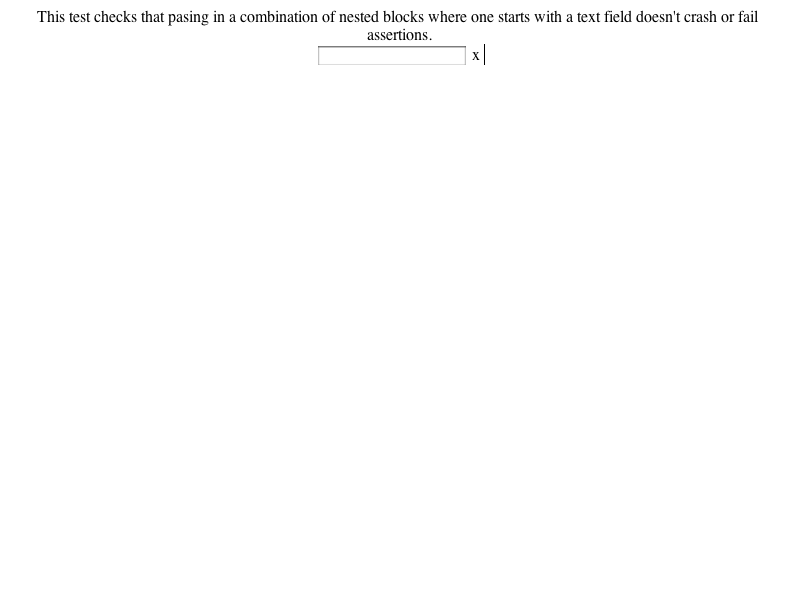
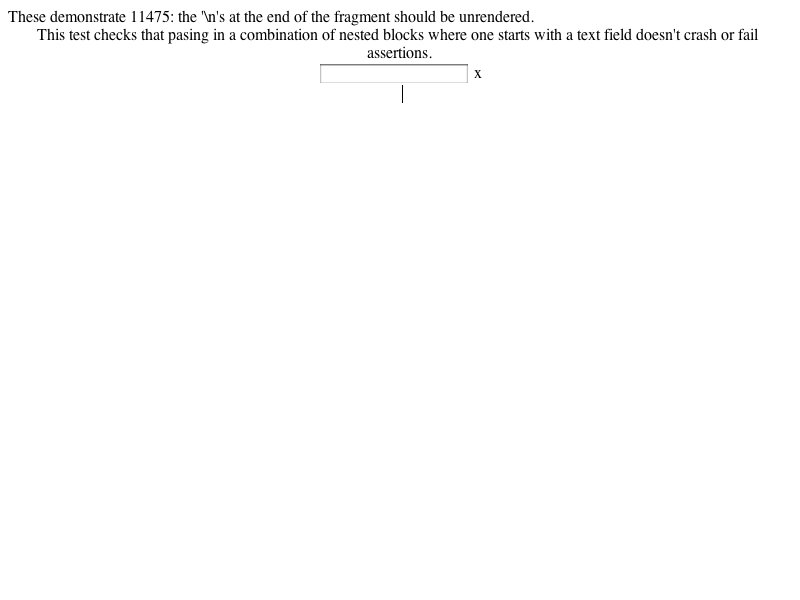
LayoutTests:
Reviewed by harrison

        Updated these tests to mention the bug that they demonstrate:
        * editing/pasteboard/nested-blocks-with-text-area-expected.checksum:
        * editing/pasteboard/nested-blocks-with-text-area-expected.png:
        * editing/pasteboard/nested-blocks-with-text-area-expected.txt:
        * editing/pasteboard/nested-blocks-with-text-area.html:
        * editing/pasteboard/nested-blocks-with-text-field-expected.checksum:
        * editing/pasteboard/nested-blocks-with-text-field-expected.png:
        * editing/pasteboard/nested-blocks-with-text-field-expected.txt:
        * editing/pasteboard/nested-blocks-with-text-field.html:

WebCore:

        Reviewed by harrison
        
        <rdar://problem/4711063>
        Pasting 10K lines into Mail/Blot takes ~7sec, in TextEdit it takes ~1.5sec

        * editing/ReplaceSelectionCommand.cpp:
        (WebCore::ReplacementFragment::ReplacementFragment): Don't do the test
        insertion and plain text string creation unless we need the string
        for a BeforeTextInserted event handler or for a plain text only region.
        (WebCore::ReplacementFragment::removeInterchangeNodes): Added, moved
        code here from ReplacementFragment's constructor.
        (WebCore::ReplaceSelectionCommand::completeHTMLReplacement): Added a
        FIXME.
        * editing/ReplaceSelectionCommand.h:

git-svn-id: https://svn.webkit.org/repository/webkit/trunk@17503 268f45cc-cd09-0410-ab3c-d52691b4dbfc

Changed region(s): [[0.0, 0.0, 0.9688, 0.12]]

diff --git a/LayoutTests/editing/pasteboard/nested-blocks-with-text-area.html b/LayoutTests/editing/pasteboard/nested-blocks-with-text-area.html
@@ -6,13 +6,15 @@ div { text-align: center; }
 </head>
 
 <body contentEditable="true">
-
+These demonstrate 11475: the '\n's at the end of the fragment should be unrendered.<br><br>
 
 <script>
 var s = window.getSelection();
 var e = document.body;
 
 s.setPosition(e, 0);
+document.execCommand("SelectAll");
+s.modify("move", "forward", "character");
 document.execCommand("InsertHTML", false, "<div>This test checks that pasing in a combination of nested blocks where one starts with a text field doesn't crash or fail assertions.</div>\n<div>\n<div>\n<textarea> </textarea> \n<span>x</span>\n</div>\n</div>");
 
 </script>

diff --git a/LayoutTests/editing/pasteboard/nested-blocks-with-text-field.html b/LayoutTests/editing/pasteboard/nested-blocks-with-text-field.html
@@ -6,13 +6,15 @@ div { text-align: center; }
 </head>
 
 <body contentEditable="true">
-
+These demonstrate 11475: the '\n's at the end of the fragment should be unrendered.<br><br>
 
 <script>
 var s = window.getSelection();
 var e = document.body;
 
 s.setPosition(e, 0);
+document.execCommand("SelectAll");
+s.modify("move", "forward", "character");
 document.execCommand("InsertHTML", false, "<div>This test checks that pasing in a combination of nested blocks where one starts with a text field doesn't crash or fail assertions.</div>\n<div>\n<div>\n<input type='text'> \n<span>x</span>\n</div>\n</div>");
 
 </script>

diff --git a/WebCore/editing/ReplaceSelectionCommand.cpp b/WebCore/editing/ReplaceSelectionCommand.cpp
@@ -33,6 +33,7 @@
 #include "Document.h"
 #include "DocumentFragment.h"
 #include "EditingText.h"
+#include "EventNames.h"
 #include "Element.h"
 #include "Frame.h"
 #include "HTMLElement.h"
@@ -47,6 +48,7 @@
 
 namespace WebCore {
 
+using namespace EventNames;
 using namespace HTMLNames;
 
 static bool isInterchangeNewlineNode(const Node *node)
@@ -74,14 +76,24 @@ ReplacementFragment::ReplacementFragment(Document* document, DocumentFragment* f
         return;
     if (!m_fragment)
         return;
-    Node* firstChild = m_fragment->firstChild();
-    if (!firstChild)
+    if (!m_fragment->firstChild())
         return;
     
     Element* editableRoot = selection.rootEditableElement();
     ASSERT(editableRoot);
     if (!editableRoot)
         return;
+    
+    Node* shadowParentNode = editableRoot->shadowParentNode();
+    
+    if (!editableRoot->getHTMLEventListener(khtmlBeforeTextInsertedEvent) &&
+        // FIXME: Remove these checks once textareas and textfields actually register an event handler.
+        !(shadowParentNode && shadowParentNode->renderer() && shadowParentNode->renderer()->isTextField() && static_cast<HTMLInputElement*>(shadowParentNode)->isNonWidgetTextField()) &&
+        !(shadowParentNode && shadowParentNode->renderer() && shadowParentNode->renderer()->isTextArea()) &&
+        editableRoot->isContentRichlyEditable()) {
+        removeInterchangeNodes(m_fragment->firstChild());
+        return;
+    }
 
     Node* styleNode = selection.base().node();
     RefPtr<Node> holder = insertFragmentForTestRendering(styleNode);
@@ -98,44 +110,12 @@ ReplacementFragment::ReplacementFragment(Document* document, DocumentFragment* f
         removeNode(holder);
 
         m_fragment = createFragmentFromText(selection.toRange().get(), evt->text());
-        firstChild = m_fragment->firstChild();
-        if (!firstChild)
+        if (!m_fragment->firstChild())
             return;
         holder = insertFragmentForTestRendering(styleNode);
     }
-
-    Node *node = firstChild;
-    Node *newlineAtStartNode = 0;
-    Node *newlineAtEndNode = 0;
-    while (node) {
-        Node *next = node->traverseNextNode();
-        if (isInterchangeNewlineNode(node)) {
-            if (next || node == firstChild) {
-                m_hasInterchangeNewlineAtStart = true;
-                newlineAtStartNode = node;
-            }
-            else {
-                m_hasInterchangeNewlineAtEnd = true;
-                newlineAtEndNode = node;
-            }
-        }
-        else if (isInterchangeConvertedSpaceSpan(node)) {
-            RefPtr<Node> n = 0;
-            while ((n = node->firstChild())) {
-                removeNode(n);
-                insertNodeBefore(n.get(), node);
-            }
-            removeNode(node);
-            if (n)
-                next = n->traverseNextNode();
-        }
-        node = next;
-    }
-
-    if (newlineAtStartNode)
-        removeNode(newlineAtStartNode);
-    if (newlineAtEndNode)
-        removeNode(newlineAtEndNode);
+    
+    removeInterchangeNodes(holder->firstChild());
     
     removeUnrenderedNodes(holder.get());
     restoreTestRenderingNodesToFragment(holder.get());
@@ -254,6 +234,42 @@ void ReplacementFragment::removeUnrenderedNodes(Node* holder)
     size_t n = unrendered.size();
     for (size_t i = 0; i < n; ++i)
         removeNode(unrendered[i]);
+}
+
+void ReplacementFragment::removeInterchangeNodes(Node* startNode)
+{
+    Node* node = startNode;
+    Node* newlineAtStartNode = 0;
+    Node* newlineAtEndNode = 0;
+    while (node) {
+        Node *next = node->traverseNextNode();
+        if (isInterchangeNewlineNode(node)) {
+            if (next || node == startNode) {
+                m_hasInterchangeNewlineAtStart = true;
+                newlineAtStartNode = node;
+            }
+            else {
+                m_hasInterchangeNewlineAtEnd = true;
+                newlineAtEndNode = node;
+            }
+        }
+        else if (isInterchangeConvertedSpaceSpan(node)) {
+            RefPtr<Node> n = 0;
+            while ((n = node->firstChild())) {
+                removeNode(n);
+                insertNodeBefore(n.get(), node);
+            }
+            removeNode(node);
+            if (n)
+                next = n->traverseNextNode();
+        }
+        node = next;
+    }
+
+    if (newlineAtStartNode)
+        removeNode(newlineAtStartNode);
+    if (newlineAtEndNode)
+        removeNode(newlineAtEndNode);
 }
 
 ReplaceSelectionCommand::ReplaceSelectionCommand(Document* document, PassRefPtr<DocumentFragment> fragment,
@@ -710,7 +726,7 @@ void ReplaceSelectionCommand::completeHTMLReplacement(const Position &lastPositi
         start = Position(firstLeaf, 0);
         end = Position(lastLeaf, maxDeepOffset(lastLeaf));
         
-        // FIXME: Should we treat all spaces in incoming content as having been rendered?
+        // FIXME (11475): Remove this and require that the creator of the fragment to use nbsps.
         rebalanceWhitespaceAt(start);
         rebalanceWhitespaceAt(end);
 

diff --git a/WebCore/editing/ReplaceSelectionCommand.h b/WebCore/editing/ReplaceSelectionCommand.h
@@ -54,6 +54,7 @@ private:
     PassRefPtr<Node> insertFragmentForTestRendering(Node* context);
     void removeUnrenderedNodes(Node*);
     void restoreTestRenderingNodesToFragment(Node*);
+    void removeInterchangeNodes(Node*);
     
     void removeNodePreservingChildren(Node*);
     void insertNodeBefore(Node* node, Node* refNode);
